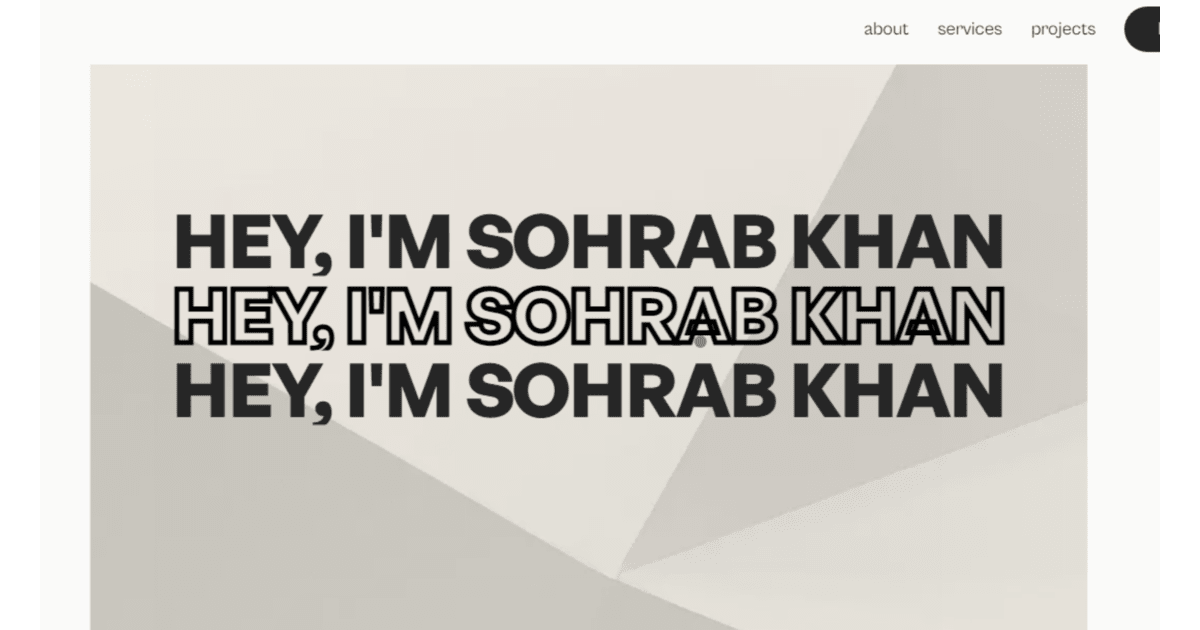
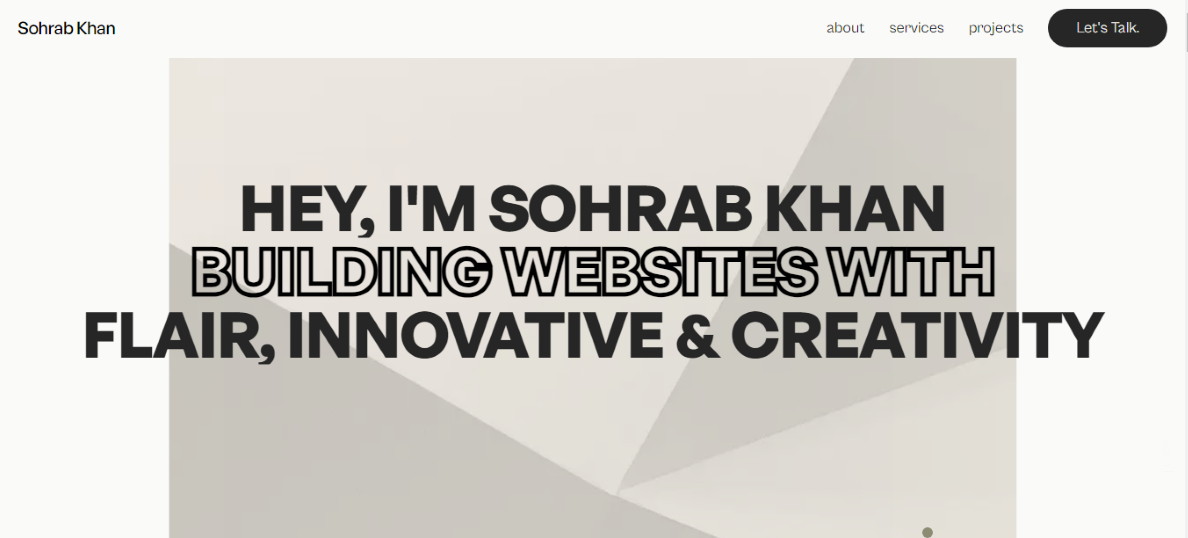
changing hero section

diff --git a/src/components/homepage/Hero.jsx b/src/components/homepage/Hero.jsx
@@ -44,21 +44,21 @@ export default function Hero() {
       <div className="z-10 flex flex-col  w-full items-center text-title 2xl:text-[10vw] 2xl:space-y-16 font-bold  uppercase text-accent-300">
         <div className="title 2xl:py-16">
           {/* Learn more about useRef */}
-          <h1 ref={(el) => (titles.current[0] = el)} className="translate-y-96 overflow-visible text-3xl md:text-4xl lg:text-7xl ">
+          <h1 ref={(el) => (titles.current[0] = el)} className="translate-y-96 overflow-visible text-4xl md:text-4xl lg:text-7xl ">
             Hey, I&apos;m Sohrab Khan
           </h1>
         </div>
         <div className=" title 2xl:py-16">
           <h1
             ref={(el) => (titles.current[1] = el)}
-            className="translate-y-96 font-outline-3 md:font-outline-4 text-transparent overflow-visible text-3xl md:text-4xl lg:text-7xl "
+            className="translate-y-96 font-outline-3 md:font-outline-4 text-transparent  overflow-visible text-3xl md:text-4xl lg:text-7xl "
           >
-            Hey, I&apos;m Sohrab Khan
+            Building websites with
           </h1>
         </div>
         <div className=" title 2xl:py-16">
-          <h1 ref={(el) => (titles.current[2] = el)} className="translate-y-96 text-3xl md:text-4xl lg:text-7xl ">
-            Hey, I&apos;m Sohrab Khan
+          <h1 ref={(el) => (titles.current[2] = el)} className="translate-y-96 text-xl md:text-4xl lg:text-7xl ">
+            flair, innovative & creativity 
           </h1>
         </div>
       </div>

diff --git a/src/components/homepage/Works.jsx b/src/components/homepage/Works.jsx
@@ -1,8 +1,3 @@
-
-import memento from "/src/assets/images/memento-desktop.webp";
-import acc from "/src/assets/images/acc-square.webp";
-import daddy from "/src/assets/images/godaddy-desktop.webp";
-import sunnyside from "/src/assets/images/sunnyside-desktop.webp";
 import Projects from "../ui/Projects";
 import Heading from "../ui/Heading";
 
@@ -25,6 +20,19 @@ export default function Works({ forwardedRef }) {
             type="Web Design • Frontend Development"
             year="2023"
             tools="HTML • TailwindCSS • JavaScript • Figma"
+
+          />
+        </div>
+        
+        <div className=" col-span-1 md:col-span-12">
+          <Projects
+            link="https://natalie-rae-creative.vercel.app/"
+            img={"/assets/images/natalie.png"}
+            alt="natlie rae creative"
+            name="natlieraecreative"
+            type="Web Design • Frontend Development"
+            year="2023"
+            tools="NextJS • TailwindCSS • Framer Motion"
 
           />
         </div>

diff --git a/src/components/homepage/Services.jsx b/src/components/homepage/Services.jsx
@@ -5,7 +5,6 @@ export default function Services() {
   const expertiseItems = [
     "Web Development",
     "Web Design",
-    "Wireframing",
     "UI/UX Design",
     "Branding",
   ];
@@ -14,11 +13,11 @@ export default function Services() {
     "JavaScript",
     "HTML",
     "CSS",
-    "Webflow",
     "Framer Motion",
     "TailwindCSS",
     "ReactJS",
     "NextJS",
+    "Sanity.io"
   ];
 
   return (
